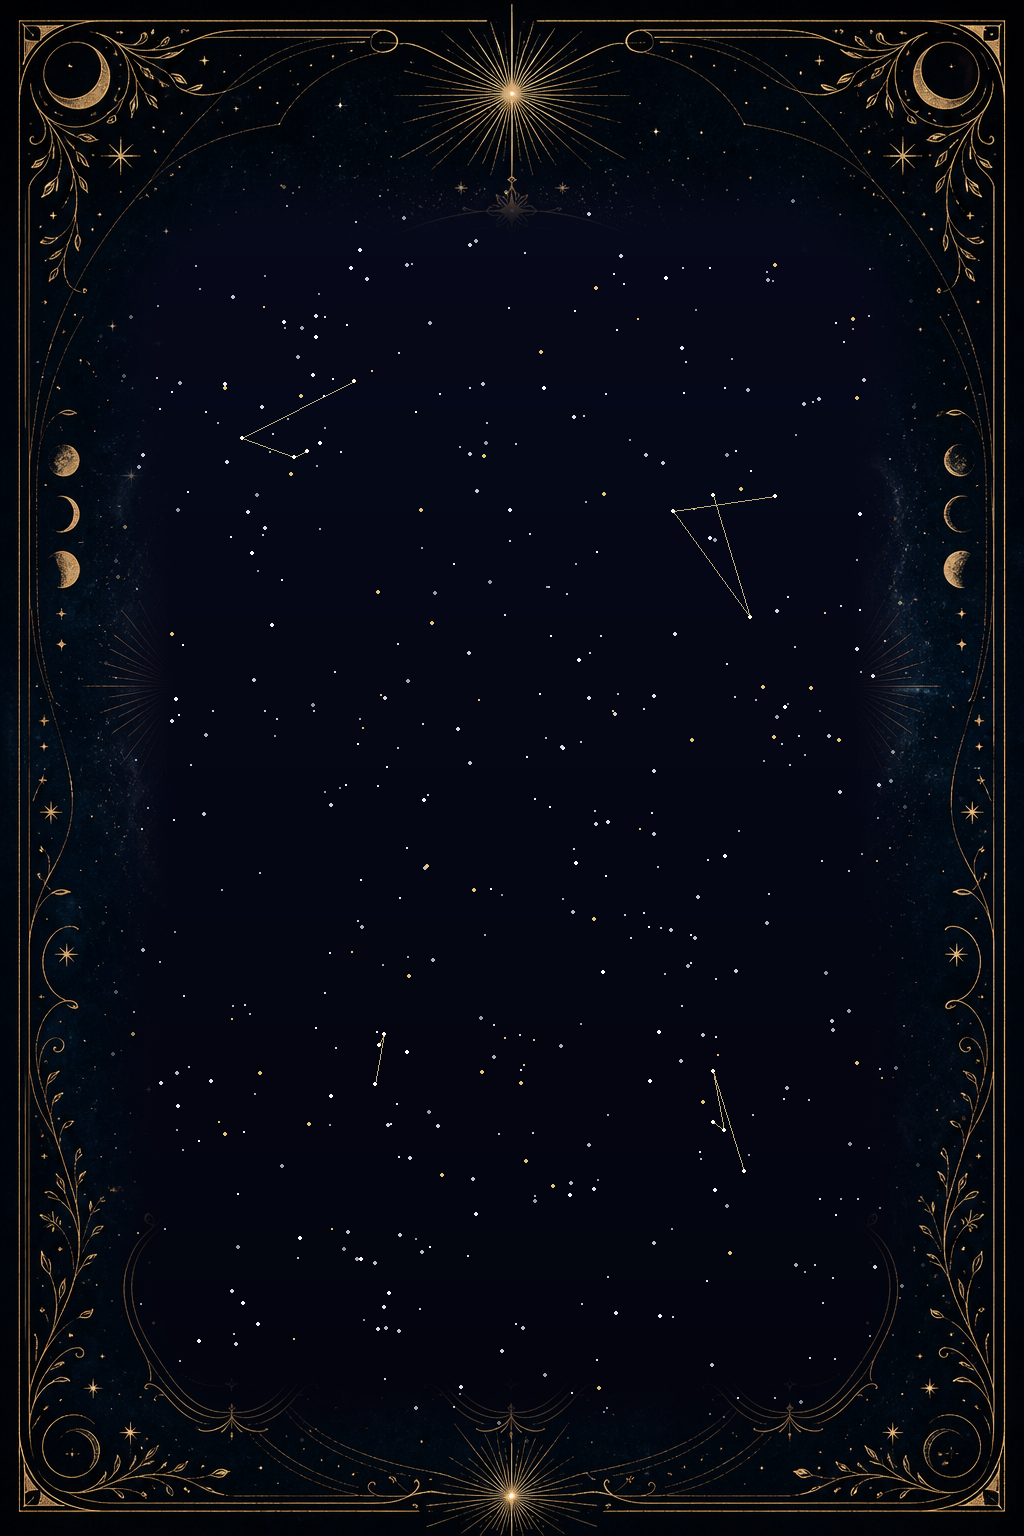
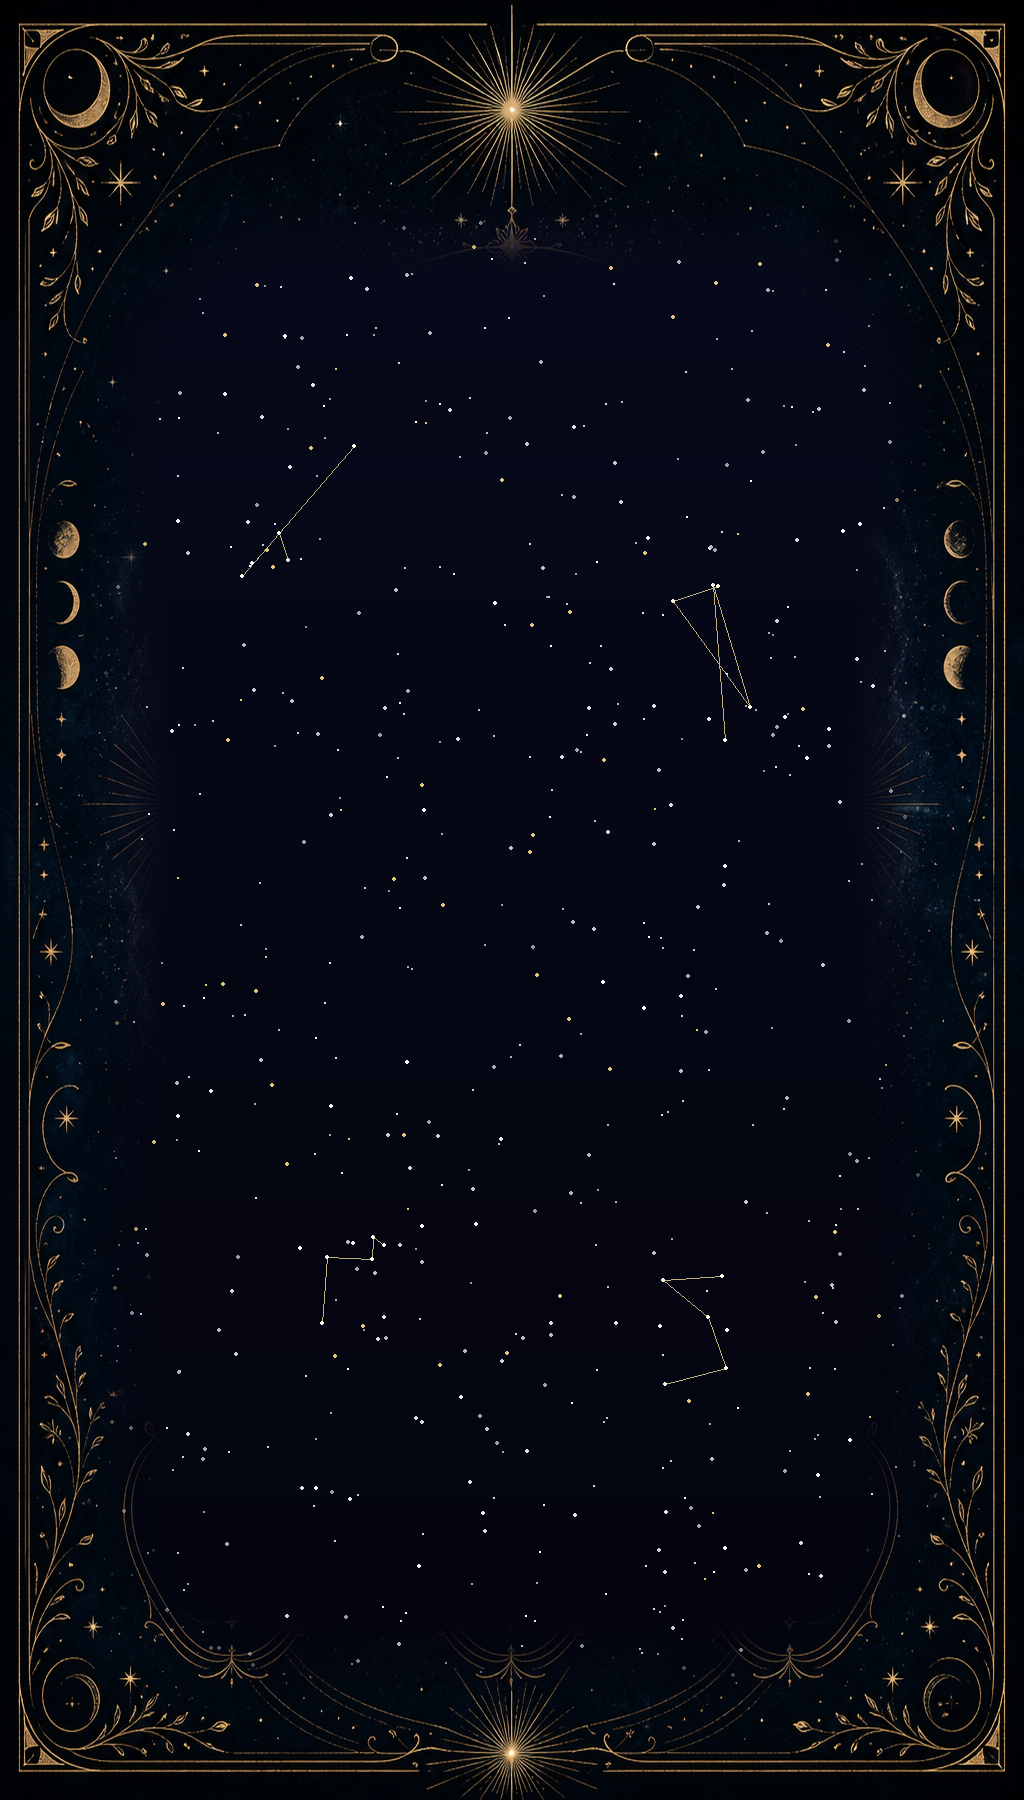
Uzun kart, genis yazi, alt kesilme duzeltildi, hizli animasyon

diff --git a/harita3d_demo.html b/harita3d_demo.html
@@ -29,15 +29,15 @@ font-size:13.5px;letter-spacing:1px;z-index:9;pointer-events:none}
 #cardOverlay{position:fixed;inset:0;z-index:40;display:flex;flex-direction:column;align-items:center;justify-content:center;gap:12px;
   background:rgba(3,3,11,0.93);transform:translateY(103%);transition:transform .55s cubic-bezier(.2,.75,.2,1);pointer-events:none}
 #cardOverlay.open{transform:translateY(0);pointer-events:auto}
-#cardInner{position:relative;width:min(96vw,calc(88vh*0.6667));aspect-ratio:1024/1536;max-height:88vh;
-  background:url('card_panel.png?v=6') center center / 100% 100% no-repeat;
-  display:flex;flex-direction:column;box-sizing:border-box;padding:6.5% 9% 5%}
-#cardHead{flex:0 0 auto;text-align:center;margin-top:1%}
-#cardGlyph{font-size:min(8vw,44px);line-height:1;color:#f0d9a0}
-#cardName{font-size:min(6.4vw,34px);color:#f5ecd6;margin-top:1px;letter-spacing:1px}
-#cardMeta{font-size:min(3.2vw,17px);color:#cdb26e;letter-spacing:2px;margin-top:5px}
-#cardDiv{width:42%;height:1px;background:rgba(214,186,128,0.5);margin:9px auto 2px}
-#cardBody{flex:1 1 auto;overflow:hidden;color:#e9c86e;font-style:italic;font-family:'Georgia',serif;line-height:1.4;text-align:justify;padding:2% 0 0}
+#cardInner{position:relative;width:min(96vw,calc(92vh*0.5689));aspect-ratio:1024/1800;max-height:92vh;
+  background:url('card_panel.png?v=7') center center / 100% 100% no-repeat;
+  display:flex;flex-direction:column;box-sizing:border-box;padding:10.5% 8% 8%}
+#cardHead{flex:0 0 auto;text-align:center;margin-top:0}
+#cardGlyph{font-size:min(7vw,38px);line-height:1;color:#f0d9a0}
+#cardName{font-size:min(5.8vw,30px);color:#f5ecd6;margin-top:1px;letter-spacing:1px}
+#cardMeta{font-size:min(3vw,16px);color:#cdb26e;letter-spacing:2px;margin-top:4px}
+#cardDiv{width:40%;height:1px;background:rgba(214,186,128,0.5);margin:7px auto 2px}
+#cardBody{flex:1 1 auto;overflow:hidden;color:#e9c86e;font-style:italic;font-family:'Georgia',serif;line-height:1.3;text-align:justify;padding:2% 0 1.5%}
 #cardBody p{margin:0 0 0.7em}
 #cardBody .cw{opacity:0;transition:opacity .3s ease}
 #cardBody .cw.on{opacity:1}
@@ -411,14 +411,14 @@ function wrap(x,txt,px,py,maxw,lh){const words=txt.split(' ');let line='',yy=py;
 const cardOverlay=document.getElementById('cardOverlay');
 const elGlyph=document.getElementById('cardGlyph'), elName=document.getElementById('cardName'), elMeta=document.getElementById('cardMeta'), elBody=document.getElementById('cardBody');
 let revealTimer=null;
-function fitCardText(){let fs=Math.max(13,Math.round(elBody.clientWidth*0.055));elBody.style.fontSize=fs+'px';let g=0;while(elBody.scrollHeight>elBody.clientHeight&&fs>10&&g<70){fs--;elBody.style.fontSize=fs+'px';g++;}}
+function fitCardText(){let fs=Math.min(21,Math.max(14,Math.round(elBody.clientWidth*0.064)));elBody.style.fontSize=fs+'px';let g=0;while(elBody.scrollHeight>elBody.clientHeight&&fs>11&&g<90){fs--;elBody.style.fontSize=fs+'px';g++;}}
 function openCard(k){if(revealTimer)clearInterval(revealTimer);
 elGlyph.textContent=PGLYPH[k]||'\u2726';elName.textContent=NAMES[k]||k;
 elMeta.textContent=(P[k].sign||'').toLocaleUpperCase('tr')+'  \u00b7  '+houseOf(P[k].lon)+'. EV  \u00b7  '+(GLYPH[P[k].sign]||'');
 elBody.innerHTML='';const spans=[];
 (INTERP[k]||'').split('\n\n').forEach(par=>{const p=document.createElement('p');par.trim().split(' ').forEach(wd=>{const s=document.createElement('span');s.className='cw';s.textContent=wd+' ';p.appendChild(s);spans.push(s);});elBody.appendChild(p);});
 cardOverlay.classList.add('open');
-requestAnimationFrame(()=>{fitCardText();let i=0;revealTimer=setInterval(()=>{if(i>=spans.length){clearInterval(revealTimer);revealTimer=null;return;}spans[i].classList.add('on');i++;},40);});
+requestAnimationFrame(()=>{fitCardText();let i=0;revealTimer=setInterval(()=>{if(i>=spans.length){clearInterval(revealTimer);revealTimer=null;return;}spans[i].classList.add('on');i++;},32);});
 }
 function closeCard(){cardOverlay.classList.remove('open');if(revealTimer){clearInterval(revealTimer);revealTimer=null;}selected=null;}
 document.getElementById('cardClose').addEventListener('click',closeCard);